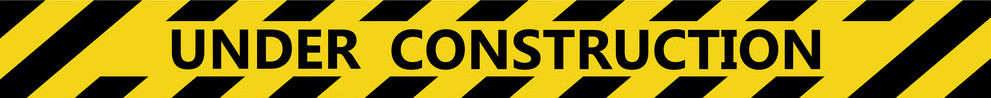
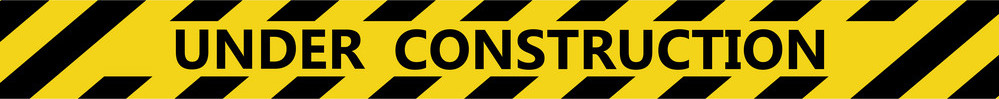
coming-soon page text/img realignment

diff --git a/styles/style.css b/styles/style.css
@@ -323,13 +323,13 @@ h3 {
 #cs2 {
     float: none;
     display: block;
-    margin-left: 40%;
+    margin-left: 39%;
 }
 
 #cs3 {
     float: none;
     display: block;
-    margin-left: 33%;
+    margin-left: 32%;
 }
 
 #construction_tape_img1 {

diff --git a/coming_soon.php b/coming_soon.php
@@ -22,7 +22,7 @@
         <hr>
         <div id="coming_soon_div">
             <img id="construction_tape_img1" src="images/under_construction_vector.jpg" alt="construction tape image 1">
-            <h1 id="cs1">COMING SOON !</h1>
+            <h1 id="cs1">COMING SOON!</h1>
             <h2 id="cs2">Site Under Construction</h2>
             <h3 id="cs3">Come back shortly to see the unveiling of our new site!</h3>
             <img id="construction_tape_img2" src="images/under_construction_vector.jpg" alt="construction tape image 2">
